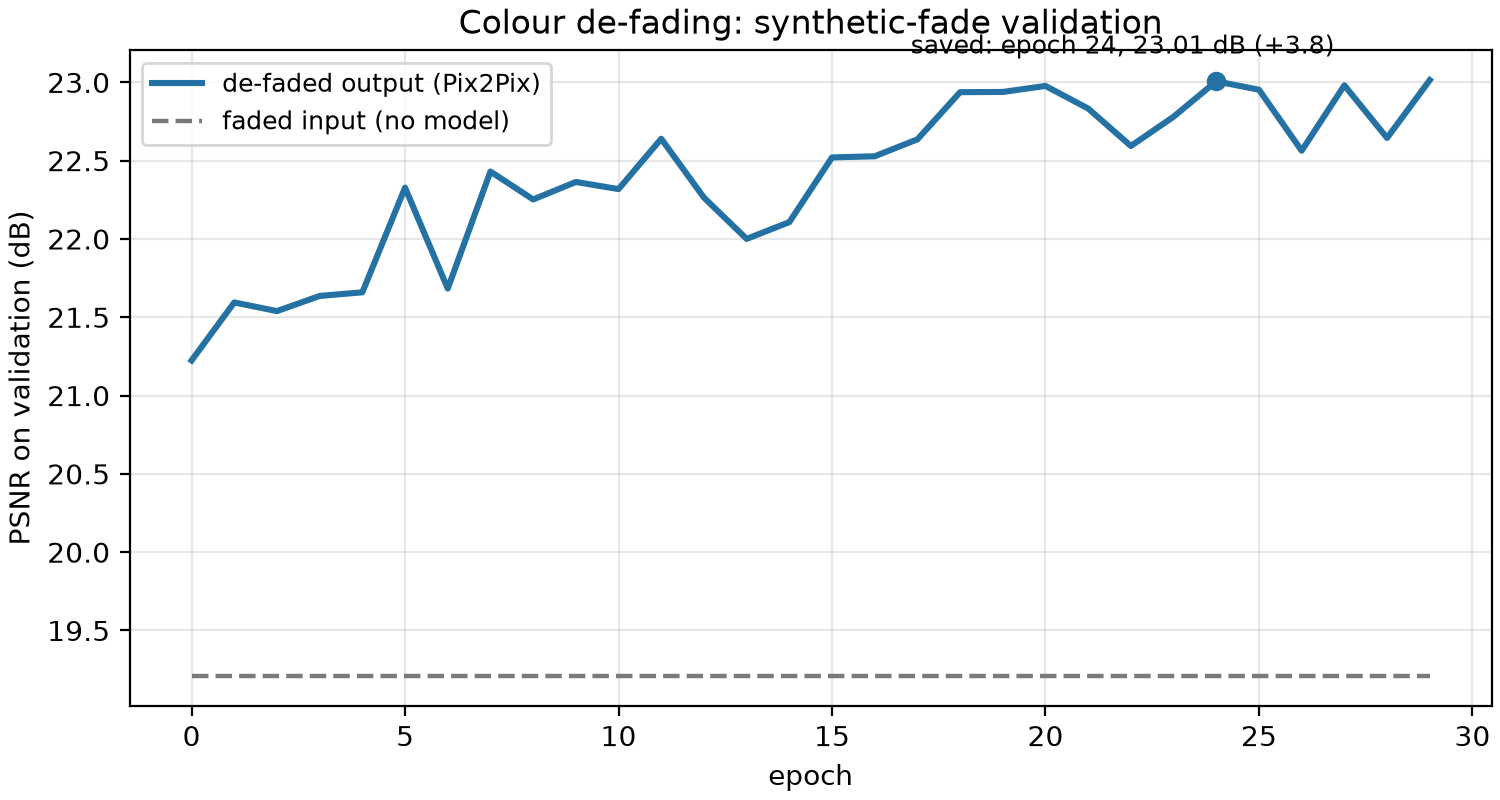
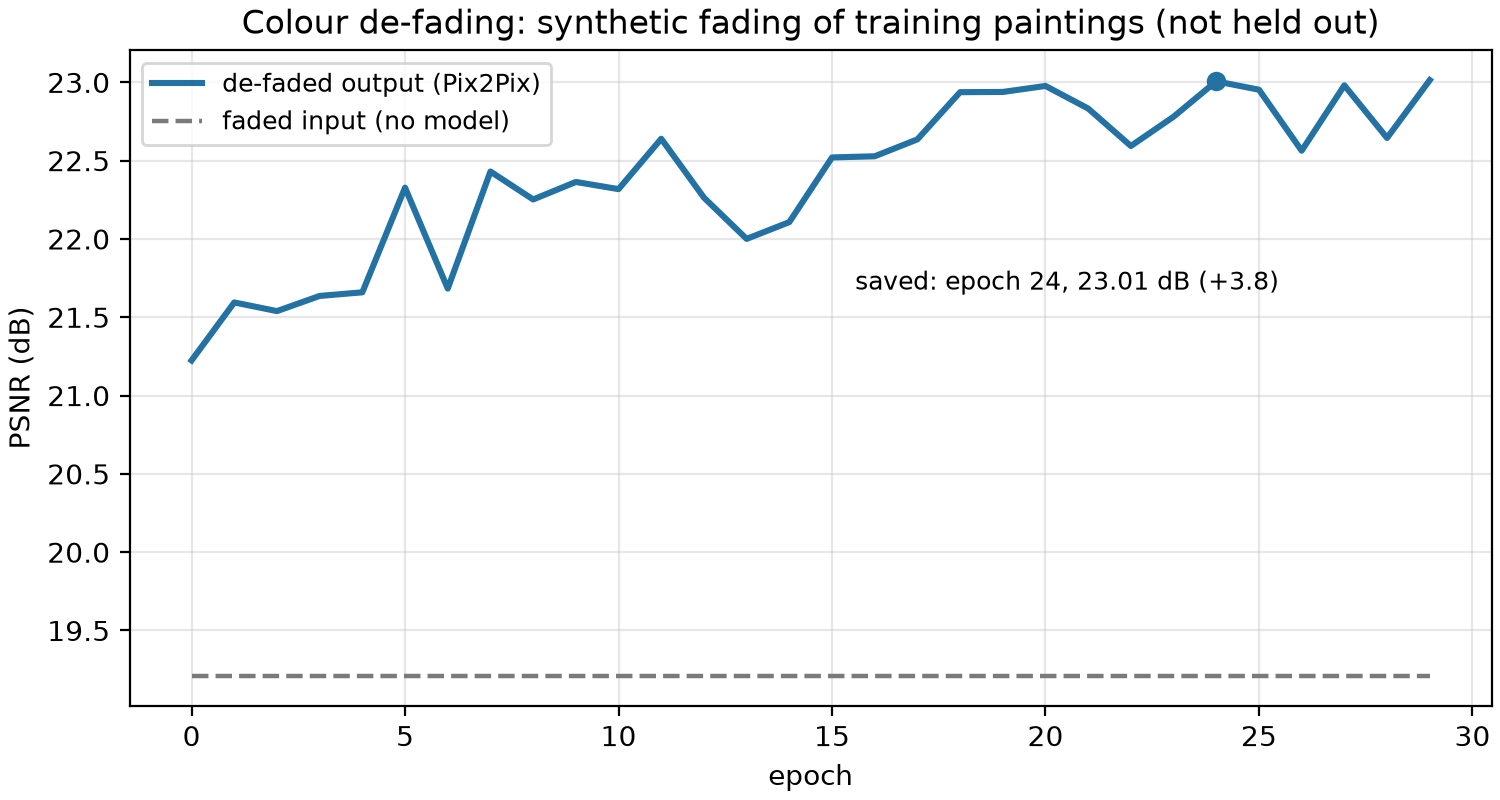
Notebook and Figure 2: de-fading PSNR is on training paintings, not held out
Claude-Session: https://claude.ai/code/session_01PwohgSdH8i6RsYHiTD6Kch

diff --git a/scripts/make_report_figures.py b/scripts/make_report_figures.py
@@ -85,9 +85,9 @@ def fig_color_curve(out, nums):
     b = int(np.argmin(c["val_l1"]))  # the checkpoint saved as color_best.pt (selected by val L1)
     ax.scatter([c["epoch"][b]], [c["val_psnr"][b]], color="#2471a3", zorder=5)
     ax.annotate(f"saved: epoch {int(c['epoch'][b])}, {c['val_psnr'][b]:.2f} dB (+{c['val_psnr'][b] - c['baseline_psnr'][b]:.1f})",
-                (c["epoch"][b], c["val_psnr"][b]), xytext=(-110, 10), textcoords="offset points", fontsize=9)
-    ax.set_xlabel("epoch"); ax.set_ylabel("PSNR on validation (dB)")
-    ax.set_title("Colour de-fading: synthetic-fade validation")
+                (c["epoch"][b], c["val_psnr"][b]), xytext=(-130, -75), textcoords="offset points", fontsize=9)
+    ax.set_xlabel("epoch"); ax.set_ylabel("PSNR (dB)")
+    ax.set_title("Colour de-fading: synthetic fading of training paintings (not held out)")
     ax.grid(alpha=0.3); ax.legend(fontsize=9)
     fig.savefig(out / "fig2_color_training_curve.png", dpi=200); plt.close(fig)
     nums.update(color_best_psnr=float(c["val_psnr"][b]), color_baseline_psnr=float(c["baseline_psnr"][b]),
